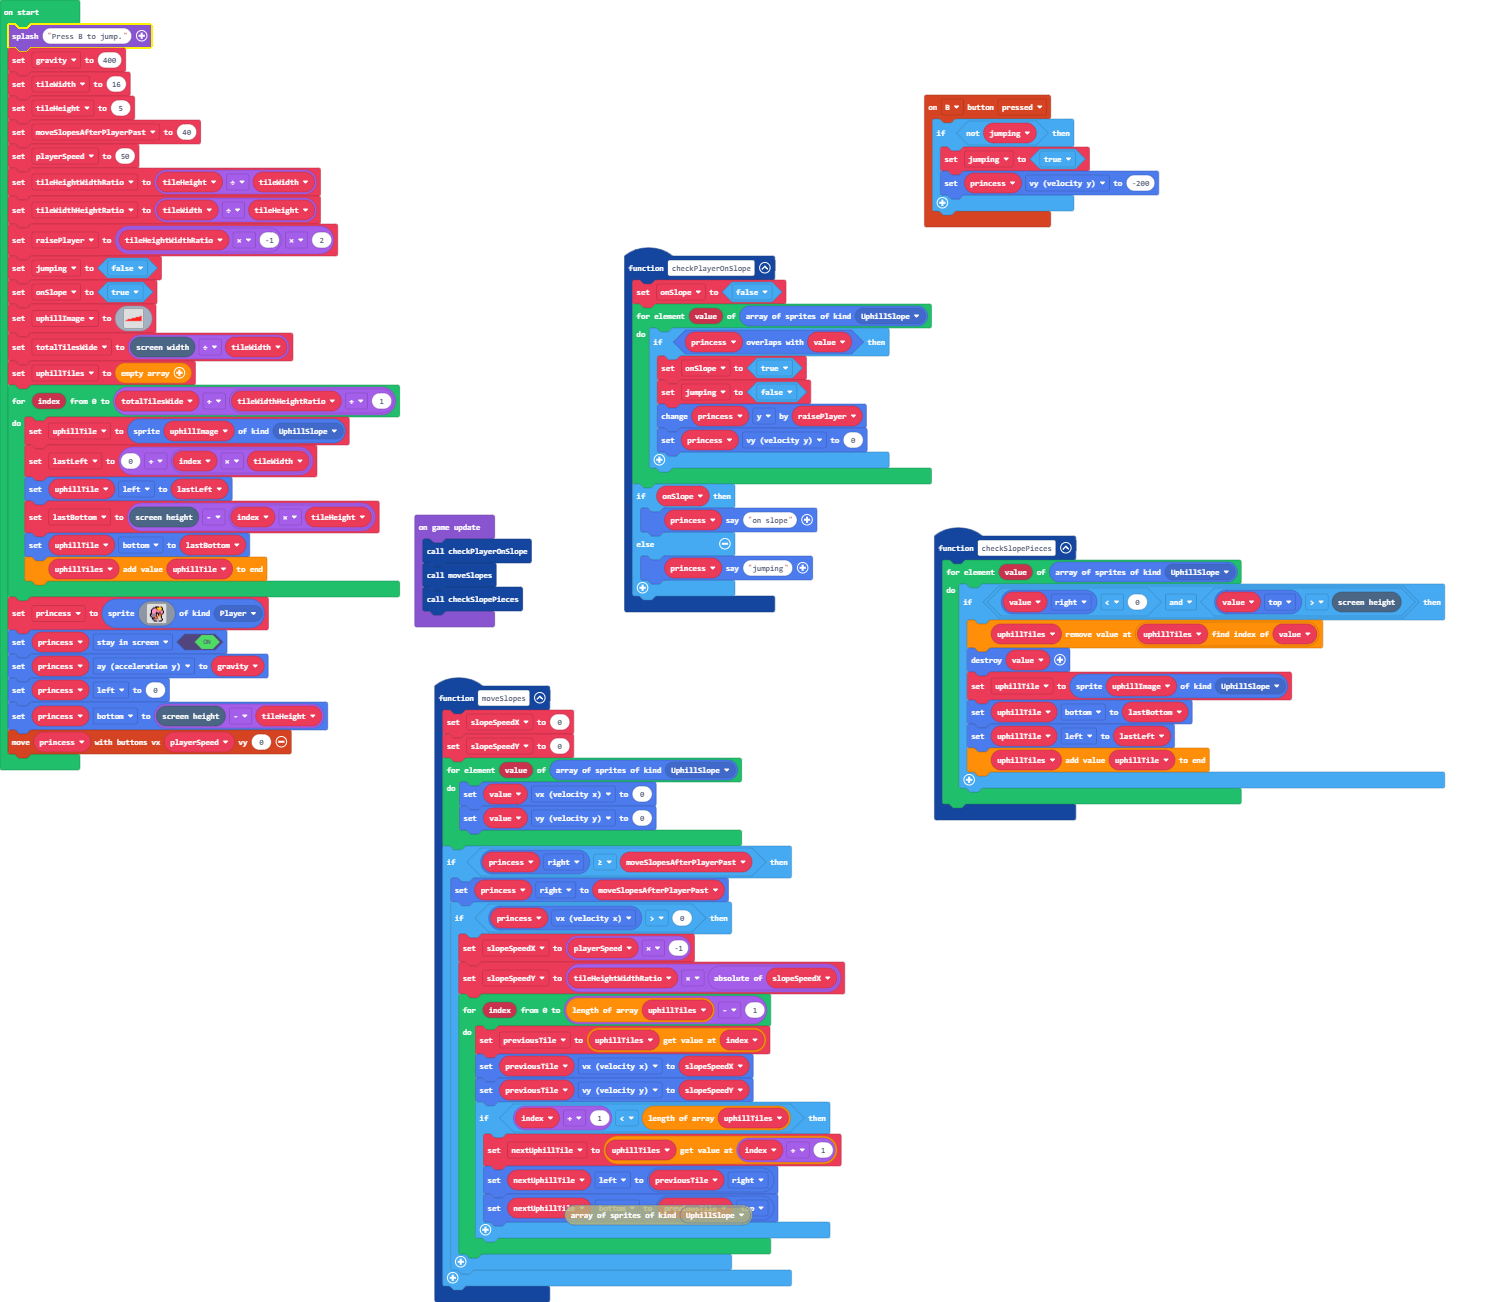
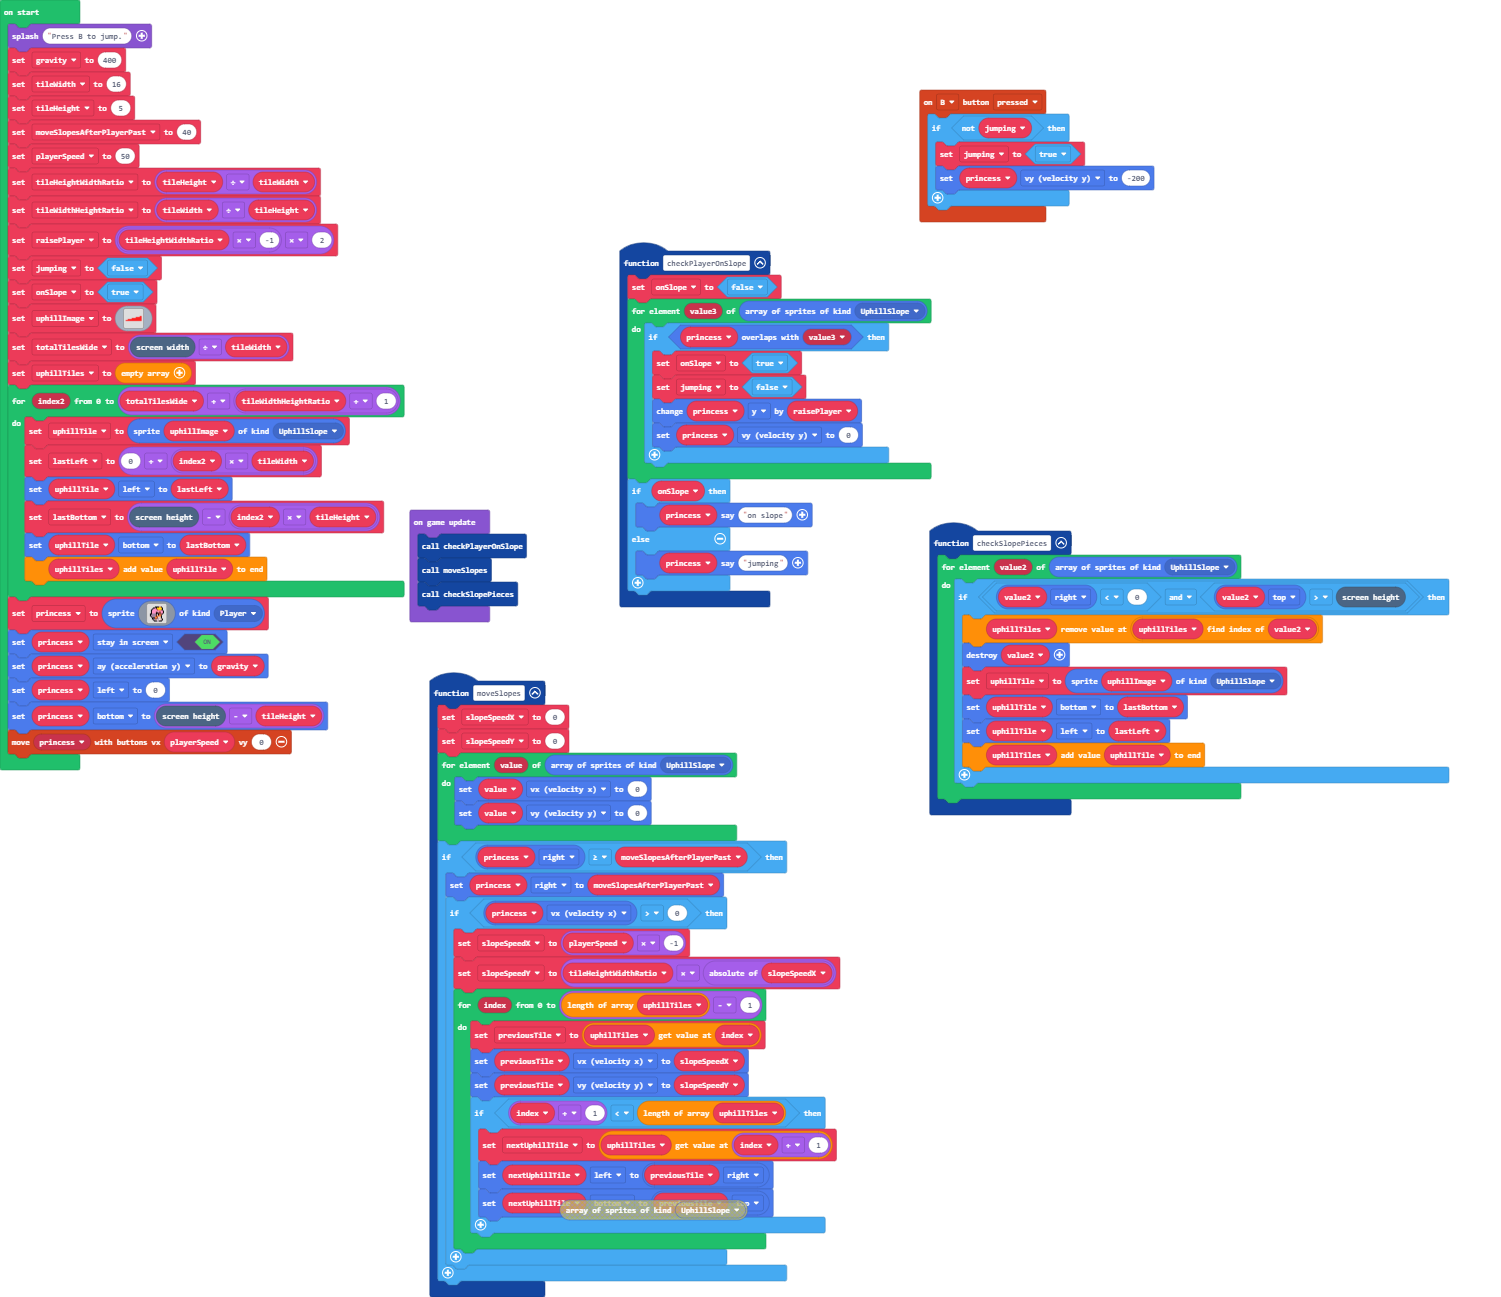
Not sure what changed, but ok.

diff --git a/main.ts b/main.ts
@@ -33,10 +33,10 @@ function moveSlopes () {
     }
 }
 function checkSlopePieces () {
-    for (let value of sprites.allOfKind(SpriteKind.UphillSlope)) {
-        if (value.right < 0 && value.top > scene.screenHeight()) {
-            uphillTiles.removeAt(uphillTiles.indexOf(value))
-            value.destroy()
+    for (let value2 of sprites.allOfKind(SpriteKind.UphillSlope)) {
+        if (value2.right < 0 && value2.top > scene.screenHeight()) {
+            uphillTiles.removeAt(uphillTiles.indexOf(value2))
+            value2.destroy()
             uphillTile = sprites.create(uphillImage, SpriteKind.UphillSlope)
             uphillTile.bottom = lastBottom
             uphillTile.left = lastLeft
@@ -46,8 +46,8 @@ function checkSlopePieces () {
 }
 function checkPlayerOnSlope () {
     onSlope = false
-    for (let value of sprites.allOfKind(SpriteKind.UphillSlope)) {
-        if (princess.overlapsWith(value)) {
+    for (let value3 of sprites.allOfKind(SpriteKind.UphillSlope)) {
+        if (princess.overlapsWith(value3)) {
             onSlope = true
             jumping = false
             princess.y += raisePlayer
@@ -96,11 +96,11 @@ uphillImage = img`
     `
 let totalTilesWide = scene.screenWidth() / tileWidth
 uphillTiles = []
-for (let index = 0; index <= totalTilesWide + (tileWidthHeightRatio + 1); index++) {
+for (let index2 = 0; index2 <= totalTilesWide + (tileWidthHeightRatio + 1); index2++) {
     uphillTile = sprites.create(uphillImage, SpriteKind.UphillSlope)
-    lastLeft = 0 + index * tileWidth
+    lastLeft = 0 + index2 * tileWidth
     uphillTile.left = lastLeft
-    lastBottom = scene.screenHeight() - index * tileHeight
+    lastBottom = scene.screenHeight() - index2 * tileHeight
     uphillTile.bottom = lastBottom
     uphillTiles.push(uphillTile)
 }
